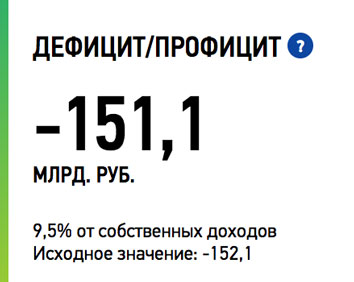
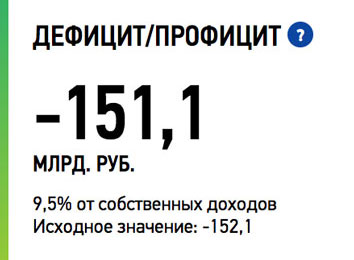
Правки по таблице

diff --git a/app/components/budget-calc-app/budget-calc-app.scss b/app/components/budget-calc-app/budget-calc-app.scss
@@ -523,13 +523,13 @@
   }
 
   &_incomes {
-    @include gradient('to right bottom, #004ccf 0%, #00ffff 100%');
+    @include gradient('to right bottom', #004ccf, #00ffff);
   }
   &_costs {
-    @include gradient('to right bottom, #ff695b 0%, #9d308a 100%');
+    @include gradient('to right bottom', #ff695b, #9d308a);
   }
   &_balance {
-    @include gradient('to right bottom, #30b069 0%, #fee300 100%');
+    @include gradient('to right bottom', #30b069, #fee300);
   }
 
   &_incomes,
@@ -807,6 +807,11 @@
     z-index: 1;
     width: 230px;
     float: left;
+
+    // Так надо, правки.
+    @media (max-width: 1023px) {
+      overflow-x: scroll !important;
+    }
   }
 
   &__main-content {
@@ -823,8 +828,11 @@
   @media (max-width: 1024px) {
     &__sidebar {
       display: block;
-      overflow-x: scroll;
+
+      // Так надо, правки.
+      overflow-x: hidden;
       overflow-y: hidden;
+
       white-space: nowrap;
       float: none;
       width: 100%;

diff --git a/app/styles/helpers/_mixins.scss b/app/styles/helpers/_mixins.scss
@@ -324,9 +324,10 @@ div {
 }
 
 // linear gradient mixin
-@mixin gradient($args) {
-  @include vendor(background, linear-gradient(unquote($args)));
-  @include vendor(zoom, 1);
+@mixin gradient($direction, $start, $stop) {
+  background-image: linear-gradient(unquote($direction), #{$start} 0%, #{$stop} 100%);
+  filter: progid:DXImageTransform.Microsoft.gradient(GradientType=0,startColorstr=#{$start}, endColorstr=#{$stop});
+  zoom: 1;
 }
 
 /*Префиксы для gradient-palette, пока без IE9*/

diff --git a/app/blocks/modal/modal.scss b/app/blocks/modal/modal.scss
@@ -155,8 +155,8 @@ body.vex-open,
     position: absolute;
     top: 50%;
     left: 50%;
-    margin-top: 20px;
-    margin-bottom: 20px;
+    // margin-top: 20px;
+    // margin-bottom: 20px;
     transform: translateX(-50%) translateY(-50%);
     max-width: 100%;
     width: 580px;
